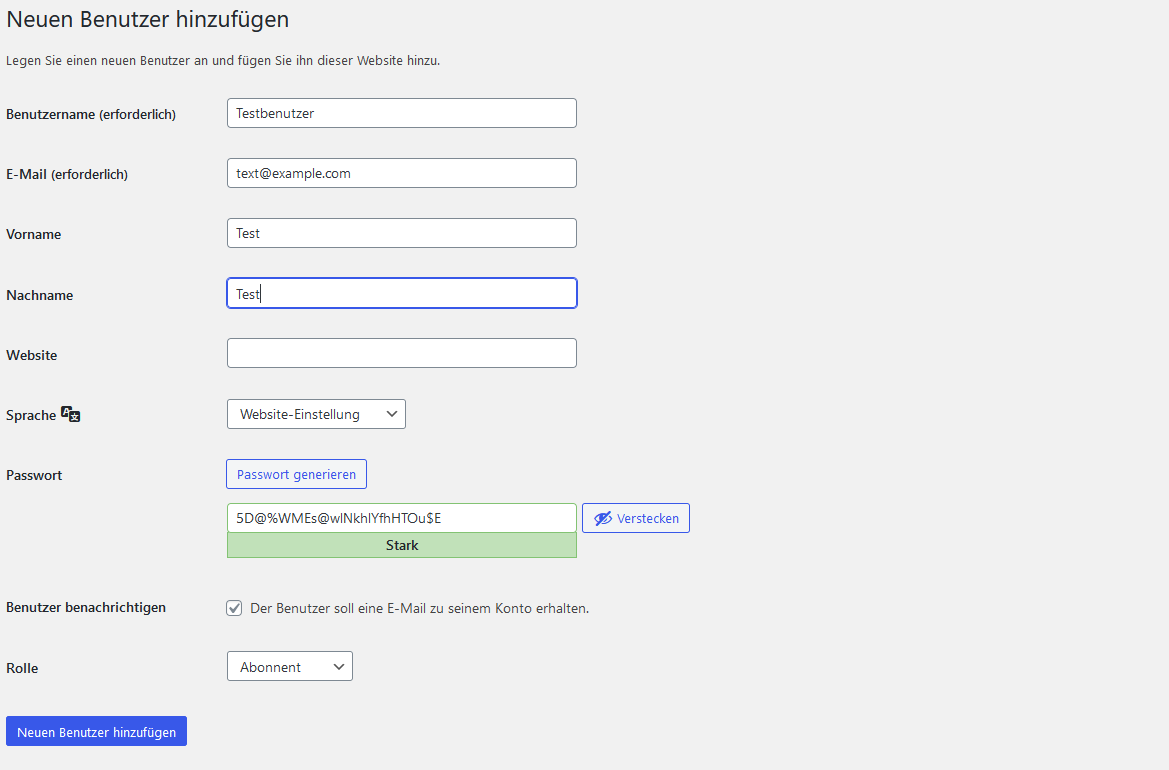
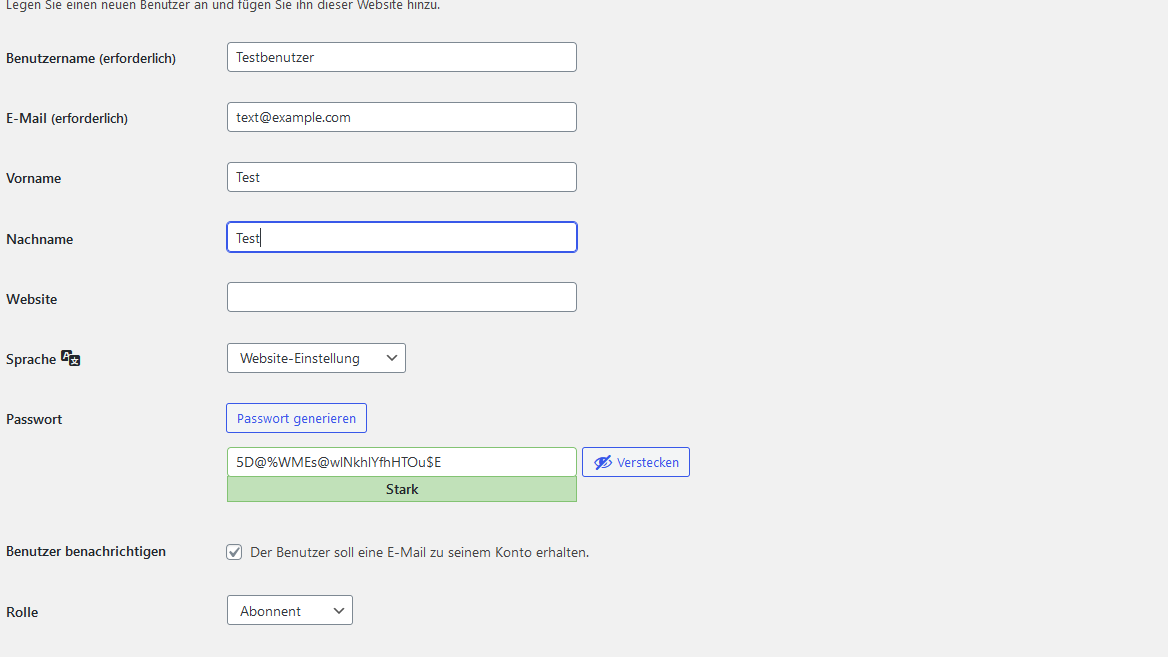
bild verschärft

diff --git a/289.html b/289.html
@@ -371,7 +371,7 @@
         </div>
         <div class="row">
             <div class="col-3">
-                <img src="bilder/289/benutzer.png" alt="Benutzer">
+                <img src="bilder/289/benutzer_scharf.PNG" alt="Benutzer">
             </div>
             <div class="col-9">
                 <p>Nun kann man den Benutzer wie gewünscht erstellen und ihm noch eine Rolle geben. Hier nochmal eine kurze Erklärung, was welche Rolle kann. Der Linke zur <a href="https://wordpress.com/de/support/benutzerrollen/">Seite</a>
